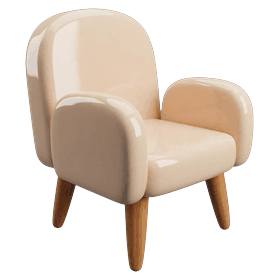
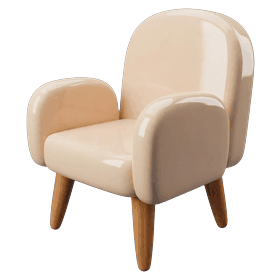
Shrink pets and beauty slightly; mirror the home-garden armchair horizontally

diff --git a/frontend/src/pages/Home.jsx b/frontend/src/pages/Home.jsx
@@ -23,9 +23,12 @@ const PROMO_SLIDES = [
 // Все картинки приведены к единой высоте и общей базовой линии прямо в файлах,
 // поэтому индивидуальная подгонка масштаба больше не нужна.
 // Точная подгонка отдельных категорий поверх общего выравнивания.
+// Точная подгонка отдельных категорий поверх общего выравнивания.
 const PHOTO_SCALE = {
   jobs: 0.9,
   'hobby-sport': 0.88,
+  pets: 0.85,
+  beauty: 0.93,
   auto: 1.18,
 }
 
